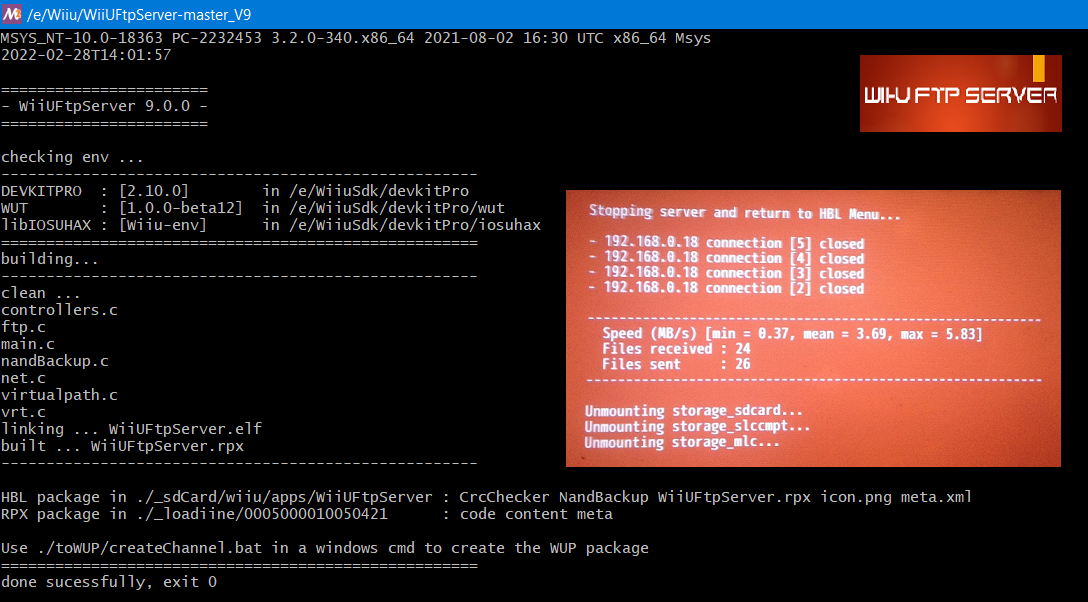
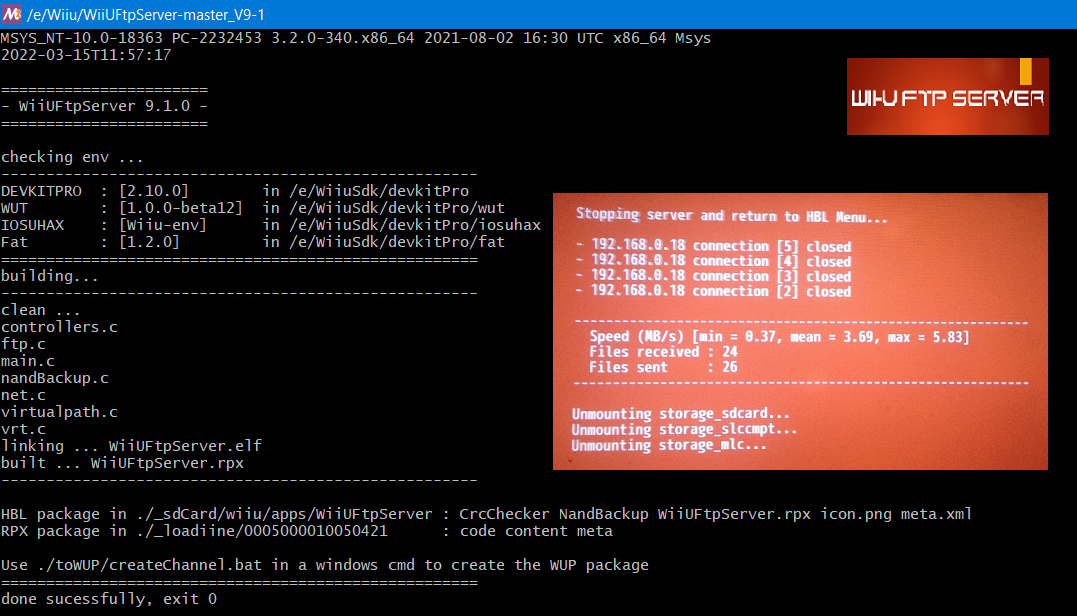
V9-1
2022/03/15 V9-1 :
    > add symlinks resolution support for the ones found in updates and DLC folders (fix transfer errors on those files)
    > move CRC32 calculation after the analysis of the return code of fwrite() in net::recv_to_file
    > fix poor transfer speeds to SDCard with using libFat (it also fix app hang/cripple when activating the log file)
      HARD FIXED the max simultaneous transfers to SDCard to 4 (to avoid write errors)
    > fix issue#14 : Transfer large size file on SDcard, WIIUFTPSERVER disconnect? 
    > rollback to IOSUHAX_FSA_ChangeMode because rights was not correctly set using system call.
    > lower the preallocated transfer buffer to ~13MB 
      So the total RAM used is ~110MB of RAM used (when transferring 8 files)
      It lowers the ending closing connection time but also gives extra KB/s
    > add folder deletion support
    > fix a regression on renaming file process
    > crcChecker V2-1 fix "TypeError: string operation on non-string array" that could occurs when treating the report

diff --git a/src/ftp.c b/src/ftp.c
@@ -61,7 +61,7 @@ static const uint32_t CRLF_LENGTH = 2;
 static volatile uint32_t activeConnectionsNumber = 0;
 static volatile uint32_t activeTransfersNumber = 0;
 static volatile uint32_t activeTransfersOnSD = 0;
-static const uint32_t maxTransfersOnSdCard = NB_SIMULTANEOUS_TRANSFERS;
+static const uint32_t maxTransfersOnSdCard = 4;
 
 // unique client IP address
 static char clientIp[15]="UNKNOWN_CLIENT";
@@ -277,12 +277,6 @@ int launchTransfer(int argc UNUSED, const char **argv)
     int32_t result = -101;
     connection_t* activeConnection = (connection_t*) argv;
 
-    // limit simultaneous transfert on SDCard
-    if (strstr(activeConnection->cwd, "/sd/") != NULL) {
-        while (activeTransfersOnSD >= maxTransfersOnSdCard) OSSleepTicks(OSMillisecondsToTicks(100));        
-        activeTransfersOnSD++;        
-    }
-    
     #ifdef LOG2FILE
         writeToLog("C[%d] launching transfer for %s", activeConnection->index+1, activeConnection->fileName);
     #endif
@@ -314,6 +308,13 @@ static int32_t transfer(int32_t data_socket UNUSED, connection_t *connection) {
 //		    displayConnectionDetails(connection->index);
 		#endif
 
+        // limit simultaneous transfert on SDCard
+        if (strstr(connection->cwd, "/sd/") != NULL) {
+            while (activeTransfersOnSD >= maxTransfersOnSdCard) OSSleepTicks(OSMillisecondsToTicks(100));        
+            activeTransfersOnSD++;        
+        }
+          
+        
         // fix #10 : fix randomly file's corruption with removing the resizing of file's internal buffer
 
         // Launching transfer thread with a priority from 0 to NB_SIMULTANEOUS_TRANSFERS
@@ -638,35 +639,41 @@ static void secureAndSplitPath(char *cwd, char* path, char **folder, char **file
                 }
             } else {
                 // path is not given, cwd gives the whole full path
+                if (strcmp(cwd, "/") != 0) {
 
-                // get path from cwd
-                path = getLastItemOfPath(cwdNoSlash);
-                *fileName = (char *)malloc (strlen(path)+1);
-                strcpy(*fileName, path);
+                    // get path from cwd
+                    path = getLastItemOfPath(cwdNoSlash);
+                    *fileName = (char *)malloc (strlen(path)+1);
+                    strcpy(*fileName, path);
 
-                pos = strrchr(cwdNoSlash, '/');
-                // folder is allocated by strndup
-                *folder = strndup(cwdNoSlash, strlen(cwdNoSlash)-strlen(pos));
+                    pos = strrchr(cwdNoSlash, '/');
+                    // folder is allocated by strndup
+                    *folder = strndup(cwdNoSlash, strlen(cwdNoSlash)-strlen(pos));
 
-                // update cwd
-                strcpy(cwd, *folder);
-                strcat(cwd, "/");
+                    // update cwd
+                    strcpy(cwd, *folder);
+                    strcat(cwd, "/");
+                }
             }
         }
     } else {
+        
         // path is not given, cwd gives the whole full path
-        // get path from cwd
-        path = getLastItemOfPath(cwdNoSlash);
-        *fileName = (char *)malloc (strlen(path)+1);
-        strcpy(*fileName, path);
+        if (strcmp(cwd, "/") != 0) {
+            // path is not given, cwd gives the whole full path
+            // get path from cwd
+            path = getLastItemOfPath(cwdNoSlash);
+            *fileName = (char *)malloc (strlen(path)+1);
+            strcpy(*fileName, path);
 
-        pos = strrchr(cwdNoSlash, '/');
-        // folder is allocated by strndup
-        *folder = strndup(cwdNoSlash, strlen(path)-strlen(pos));
+            pos = strrchr(cwdNoSlash, '/');
+            // folder is allocated by strndup
+            *folder = strndup(cwdNoSlash, strlen(path)-strlen(pos));
 
-        // update cwd
-        strcpy(cwd, *folder);
-        strcat(cwd, "/");
+            // update cwd
+            strcpy(cwd, *folder);
+            strcat(cwd, "/");
+        }
     }
 }
 
@@ -762,42 +769,36 @@ static int32_t ftp_DELE(connection_t *connection, char *path) {
     char *folder = NULL;
     char *fileName = NULL;
 
-    // check if folder exist, creates it if needed
-    if (path[0] == '/') {
-        sprintf(vPath, "%s", path);
-        // get the folder from path
-        folder = (char *)malloc (strlen(path)+1);
-        strcpy(folder, path);
-        char *pos = strrchr(folder, '/');
-        fileName = strdup (pos + 1);
-    } else {
-        // folder = connection_cwd
-        sprintf(vPath, "%s/%s", connection->cwd, path);
-        folder = (char *)malloc (strlen(connection->cwd)+1);
-        strcpy (folder, connection->cwd);
-        fileName = (char *)malloc (strlen(path)+1);
-        strcpy (fileName, path);
-    }
-
+    secureAndSplitPath(connection->cwd, path, &folder, &fileName);
+	strcpy(connection->cwd, folder);
+	if (strcmp(connection->cwd, "/") != 0) strcat(connection->cwd, "/");
+    
+    sprintf(vPath, "%s/%s", folder, fileName);
+    if (folder != NULL) free(folder);
+    
     char *volPath = NULL;
     volPath = virtualToVolPath(vPath);
 
+display("DEBUG : ftp_DELE vPath=%s", vPath);    
+    
     // chmod
     IOSUHAX_FSA_ChangeMode(fsaFd, volPath, 0x664);
     free(volPath);
 
-    if (!vrt_unlink(folder, fileName)) {
+display("DEBUG : ftp_DELE cwd=%s f=%s", connection->cwd, fileName);    
+    
+    if (!vrt_unlink(connection->cwd, fileName)) {
         char msg[MAXPATHLEN + 40] = "";
         sprintf(msg, "C[%d] File or directory removed", connection->index+1);
         if (fileName != NULL) free(fileName);
-        if (folder != NULL) free(folder);
+
         return write_reply(connection, 250, msg);
     } else {
         display("~ WARNING : error from vrt_unlink in ftp_DELE : %s", strerror(errno));
         char msg[MAXPATHLEN + 40] = "";
         sprintf(msg, "Error when DELE %s%s : err = %s", connection->cwd, path, strerror(errno));
         if (fileName != NULL) free(fileName);
-        if (folder != NULL) free(folder);
+        
         return write_reply(connection, 550, msg);
     }
 }
@@ -879,7 +880,7 @@ static int32_t ftp_RNTO(connection_t *connection, char *path) {
     writeToLog("folder=%s, fileName=%s", folder, fileName);
 #endif
 
-    if (!vrt_rename(folder, connection->pending_rename, fileName)) {
+    if (!vrt_rename(connection->cwd, connection->pending_rename, fileName)) {
         sprintf(msg, "C[%d] Rename %s to %s successfully", connection->index+1, connection->pending_rename, path);
         result = write_reply(connection, 250, msg);
     } else {
@@ -1020,7 +1021,7 @@ static int32_t ftp_PORT(connection_t *connection, char *portspec) {
 typedef int32_t (*data_connection_handler)(connection_t *connection, data_connection_callback callback, void *arg);
 
 static int32_t prepare_data_connection_active(connection_t *connection, data_connection_callback callback UNUSED, void *arg UNUSED) {
-
+    
     static const int retriesNumber = 4;
     int nbTries=0;
     try_again:
@@ -1156,6 +1157,7 @@ static int32_t ftp_NLST(connection_t *connection, char *path) {
         sprintf(msg, "Error when NLIST %s%s : err = %s", connection->cwd, path, strerror(errno));
         return write_reply(connection, 550, msg);
     }
+    
     int32_t result = prepare_data_connection(connection, send_nlst, dir, vrt_closedir);
     if (result < 0) {
         display("! ERROR : prepare_data_connection failed in ftp_NLST for %s", path);
@@ -1183,12 +1185,9 @@ static int32_t ftp_LIST(connection_t *connection, char *path) {
         path = ".";
     }
 
-    if (path && connection->cwd) if (strcmp(path, ".") == 0 && strcmp(connection->cwd, "/") == 0) {
-#ifdef LOG2FILE
-        writeToLog("ResetVirtualPaths from ftp_LIST");
-#endif
-        ResetVirtualPaths();
-    }
+//     if (path && connection->cwd) if (strcmp(path, ".") == 0 && strcmp(connection->cwd, "/") == 0) ResetVirtualPaths();
+
+   
     DIR_P *dir = vrt_opendir(connection->cwd, path);
     if (dir == NULL) {
         display("! ERROR : C[%d] vrt_opendir failed in ftp_LIST() on %s", connection->index+1, path);
@@ -1271,7 +1270,7 @@ static int32_t ftp_RETR(connection_t *connection, char *path) {
     // file or symlink
     if (access(filePath, F_OK) != 0) {
 #ifdef LOG2FILE
-            writeToLog("DEBUG : symlink detected = %s", filePath); 
+            writeToLog("C[%d] ftp_RETR : symlink detected = %s", connection->index+1, filePath); 
 #endif            
         // symlink
         char *resolved = NULL;
@@ -1280,7 +1279,7 @@ static int32_t ftp_RETR(connection_t *connection, char *path) {
         if (resolved != NULL) {
             strcpy(folder, resolved);
 #ifdef LOG2FILE
-            writeToLog("DEBUG : resolved = %s", resolved); 
+            writeToLog("C[%d] ftp_RETR : resolved = %s", connection->index+1, resolved); 
 #endif
             free(resolved);
         }
@@ -1524,6 +1523,7 @@ static int32_t dispatch_to_handler(connection_t *connection, char *cmd_line, con
     char cmd[FTP_MSG_BUFFER_SIZE] = "", rest[FTP_MSG_BUFFER_SIZE] = "";
     char *args[] = { cmd, rest };
     split(cmd_line, ' ', 1, args);
+    
     int32_t i;
     for (i = 0; commands[i]; i++) {
         if (!strcasecmp(commands[i], cmd)) break;

diff --git a/src/vrt.c b/src/vrt.c
@@ -294,9 +294,22 @@ int vrt_chdir(char *cwd, char *path) {
 }
 
 int vrt_unlink(char *cwd, char *path) {
+    int res = -1;
+    
+    if (vrt_checkdir(cwd, path) == 0) {
+		// it is a folder
+#ifdef LOG2FILE
+        writeToLog("vrt_unlink folder detected %s%s", cwd, path);
+#endif
         
-    int res = (int)with_virtual_path(cwd, unlink, path, -1, NULL);
+        res = (int)with_virtual_path(cwd, rmdir, path, -1, NULL);
+    } else { 
+#ifdef LOG2FILE
+        writeToLog("vrt_unlink file detected %s%s", cwd, path);
+#endif
         
+        res = (int)with_virtual_path(cwd, unlink, path, -1, NULL);
+    }    
     return res;
 }
 
@@ -313,7 +326,7 @@ int vrt_rename(char *cwd, char *from_path, char *to_path) {
 	if (!real_to_path || !*real_to_path) return -1;
     
 #ifdef LOG2FILE
-    display("DEBUG : vrt_rename, real_to_path=%s", real_to_path);
+    writeToLog("DEBUG : vrt_rename, real_to_path=%s", real_to_path);
 #endif
     
     int result = (int)with_virtual_path(cwd, rename, from_path, -1, real_to_path, NULL);

diff --git a/src/main.c b/src/main.c
@@ -46,10 +46,6 @@
 // return code
 #define EXIT_SUCCESS        0
 
-// defined for 8 simultaneous transferts
-#define SD_CACHE_PAGES (512*NB_SIMULTANEOUS_TRANSFERS)
-#define SD_SECTORS_PAGE (128*NB_SIMULTANEOUS_TRANSFERS)
-
 typedef enum
 {
 	APP_STATE_STOPPING = 0,
@@ -370,10 +366,7 @@ static void writeSfvHeader() {
 int main()
 {
     setlocale(LC_ALL, "");
-    
-    // specific libfat init for WiiUFtpServer
-    fatInitEx(SD_CACHE_PAGES, true, SD_SECTORS_PAGE);
-    
+        
     // Console init
     WHBLogUdpInit();
     WHBProcInit();

diff --git a/src/net.c b/src/net.c
@@ -485,7 +485,7 @@ int32_t send_from_file(int32_t s, connection_t* connection) {
         {display("! ERROR : setsockopt / SNDBUF failed !");
     }
 
-    int32_t downloadBufferSize = TRANSFER_BUFFER_SIZE;
+    int32_t downloadBufferSize = TRANSFER_CHUNK_SIZE*4;
 
     // if less than 4 transfers are running, sleep just an instant to let other connections start (only 3 cores are available)
     int nbt = getActiveTransfersNumber();
